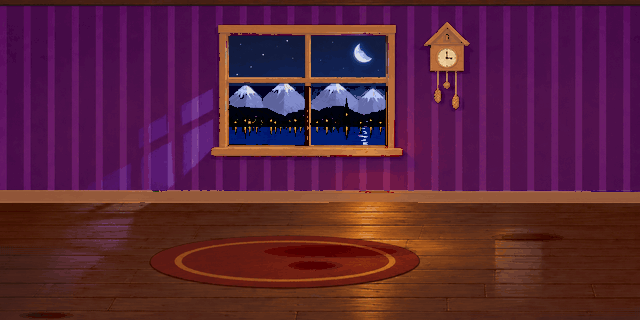
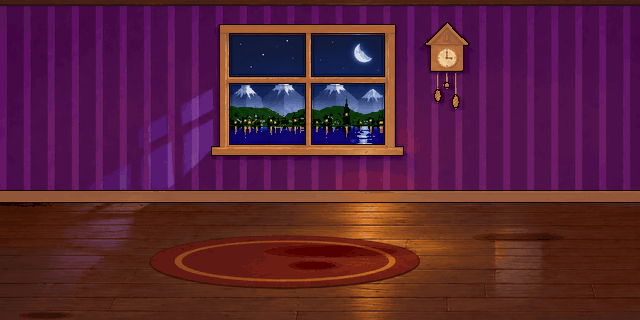
assets(hb1b): Zurich polish: smooth window view, ink edges, CRT word, RESUME card (#73)

diff --git a/src/config/scenes/zurich.ts b/src/config/scenes/zurich.ts
@@ -67,7 +67,7 @@ export const ZURICH_SCENE: SceneData = {
   // The floor from the baseboard (y 101) to the front edge, less the plant's
   // pot corner (x 46 and y 127 clear its leaves and rim). Two keyhole slits
   // (x 170 and x 262) cut out the footprints of the desk and chair
-  // (x 136-203, y 119-134) and the cabinet (x 247-276, y 113-119).
+  // (x 136-203, y 119-134) and the cabinet (x 238-276, y 113-119).
   walkbox: [
     [4, 101],
     [170, 101],
@@ -84,8 +84,8 @@ export const ZURICH_SCENE: SceneData = {
     [170, 101],
     [262, 101],
     [262, 113],
-    [247, 113],
-    [247, 119],
+    [238, 113],
+    [238, 119],
     [276, 119],
     [276, 113],
     [262, 113],
@@ -175,10 +175,10 @@ export const ZURICH_SCENE: SceneData = {
       name: "filing cabinet",
       sprite: zurichObjCabinet,
       states: { open: zurichObjCabinetOpen },
-      // The 66x84 canvas is shared with the open state, whose drawer sticks
-      // out to the left of the body.
-      x: 242,
-      y: 76,
+      // The 84x94 art px canvas is shared with the open state, whose drawer
+      // sticks out to the left of the body.
+      x: 233,
+      y: 71,
       interactionPoint: { x: 261, y: 128, facing: "n" },
       baselineY: CABINET_BASELINE,
       action: "resume",
@@ -218,11 +218,11 @@ export const ZURICH_SCENE: SceneData = {
       clip: LAKE,
     },
     {
-      // The prompt cursor, under the marquee on the CRT's green screen.
+      // The prompt cursor, under the word on the CRT's green screen.
       kind: "lamps",
       id: "cursor",
-      points: [[152, 90]],
-      size: 2,
+      points: [[152.5, 89]],
+      size: 1,
       pattern: "alternate",
       stepMs: 530,
       on: "#7fae52",
@@ -272,29 +272,29 @@ export const ZURICH_SCENE: SceneData = {
   ],
   labels: [
     {
-      // "EXPERIENCE" scrolls across the CRT's screen (x 151-167, y 82-93)
-      // in phosphor green, above the prompt cursor: the word is too long
-      // for a 16 px screen, so it runs like the Windows marquee screensaver.
+      // "EXP" on the CRT's green screen (x 151-167, y 82-92): the full word
+      // is 74 art px at its smallest, on a 33 px screen, so the screen shows
+      // the RPG stat instead. The cursor blinks under it.
       id: "crt",
-      source: "section:experience",
-      x: 151,
+      source: "text:EXP",
+      x: 152.5,
       y: 84,
       font: "small",
+      maxWidth: 13.5,
       color: "#7fae52",
-      marquee: { clip: { x: 151, y: 82, w: 16, h: 11 }, pxPerSec: 12 },
       baselineY: DESK_BASELINE,
     },
     {
-      // Lettered on the card on the cabinet's top drawer (x 250-269). The
-      // word at the smallest size is 23 px, so it overhangs the card by two
-      // px each side, onto the drawer's grey face.
+      // Lettered on the card on the cabinet's top drawer (x 242-267, about
+      // 25 px wide). The word at its smallest size is 23 px, so it sits
+      // inside the card with a px to spare on each side.
       id: "cabinet",
       source: "section:resume",
-      x: 259.5,
-      y: 81.5,
+      x: 255,
+      y: 77.5,
       align: "center",
       font: "small",
-      maxWidth: 23,
+      maxWidth: 25,
       color: "#2a2328",
       baselineY: CABINET_BASELINE,
     },

diff --git a/src/engine/__tests__/text.test.ts b/src/engine/__tests__/text.test.ts
@@ -97,6 +97,19 @@ describe("world text", () => {
     );
   });
 
+  test("the Zurich CRT word sits inside its screen with a px to spare", () => {
+    const crt = SCENES.zurich.labels?.find((l) => l.id === "crt");
+    const text = resolveLabel(crt?.source ?? "text:")[0];
+    const fit = fitText(text, crt?.maxWidth ?? 0, crt?.font ?? "regular");
+    const w = measureText(text, fit.font, fit.tracking);
+    // The screen is x 151-167, y 82-92.5 logical px; margins are half a px.
+    expect(crt?.marquee).toBeUndefined();
+    expect(crt?.x ?? 0).toBeGreaterThanOrEqual(151.5);
+    expect((crt?.x ?? 0) + w).toBeLessThanOrEqual(166.5);
+    expect(crt?.y ?? 0).toBeGreaterThanOrEqual(82.5);
+    expect((crt?.y ?? 0) + capHeight(fit.font)).toBeLessThanOrEqual(92);
+  });
+
   test("draws section icons inline, as one glyph each", () => {
     expect(measureText("{skills}")).toBe(measureText("{resume}"));
     expect(measureText("{skills} Skills")).toBeGreaterThan(
@@ -209,12 +222,6 @@ describe("marquee labels", () => {
   test("starts again once the text and the gap have passed", () => {
     const cycleMs = ((17 + 39 + MARQUEE_GAP) / 12) * 1000;
     expect(marqueeX(marquee, 39, cycleMs)).toBe(169);
-  });
-
-  test("the Zurich CRT names its section on screen", () => {
-    const crt = SCENES.zurich.labels?.find((l) => l.id === "crt");
-    expect(crt?.source).toBe("section:experience");
-    expect(crt?.marquee).toBeDefined();
   });
 });
 
